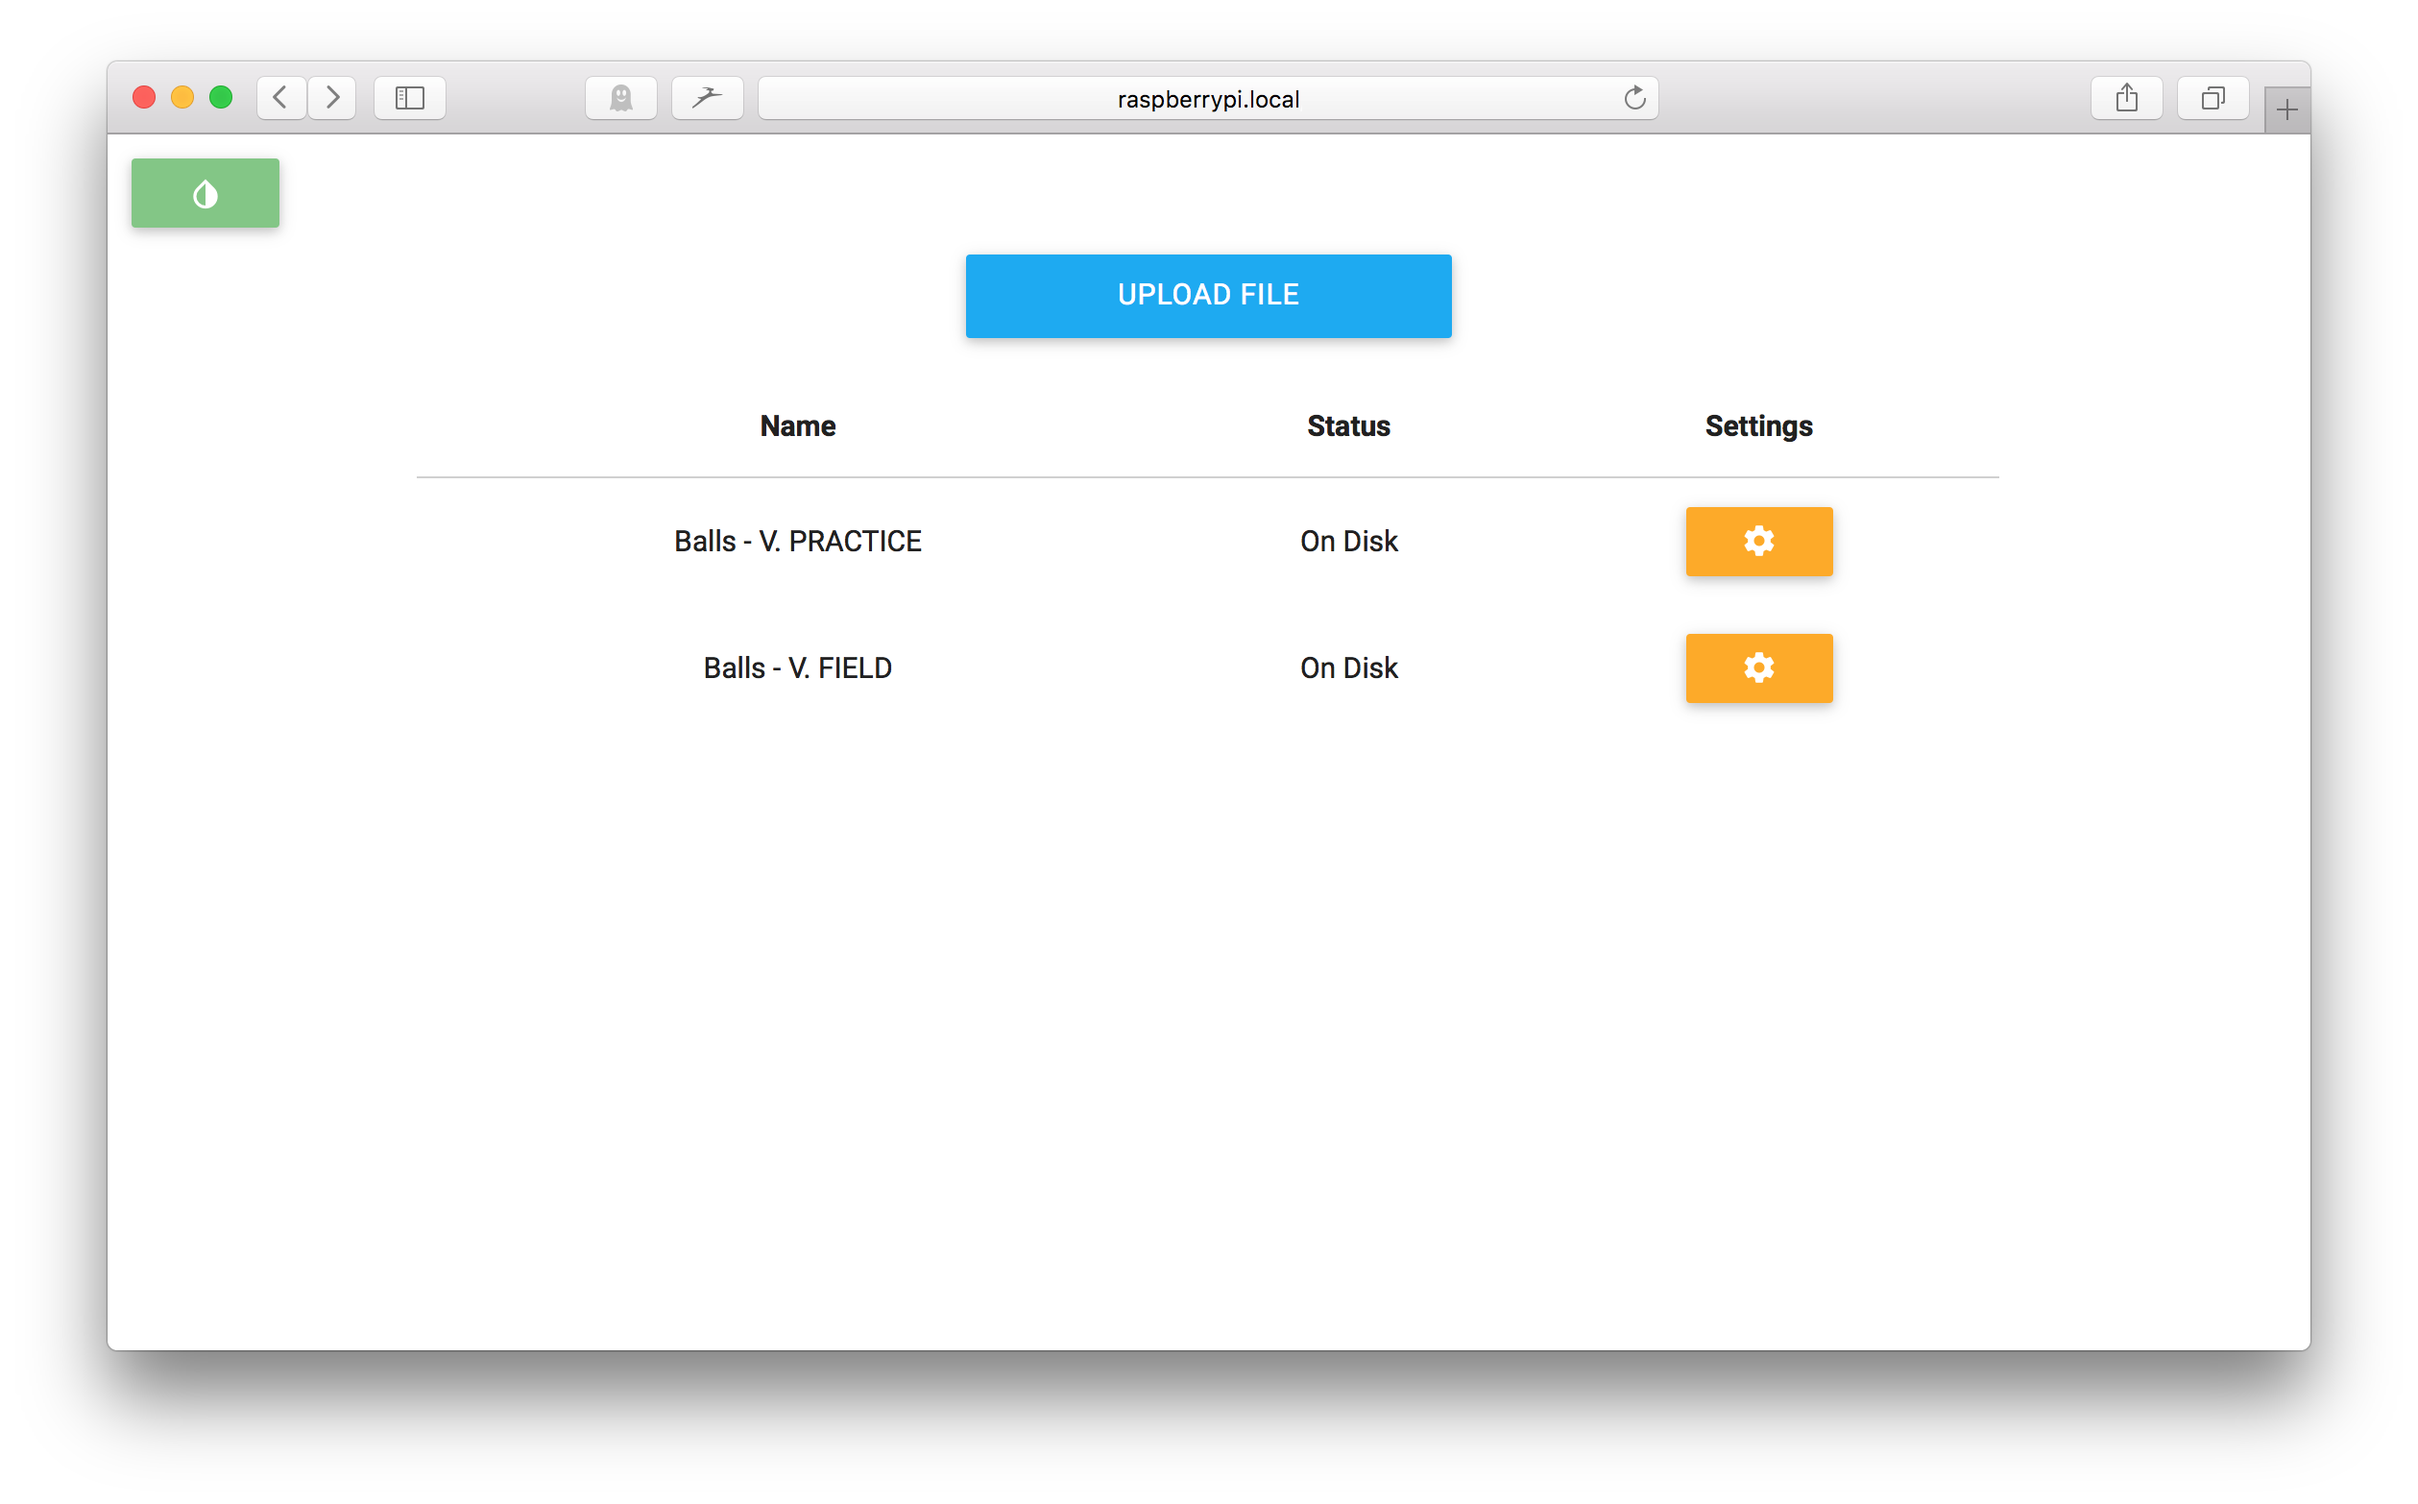
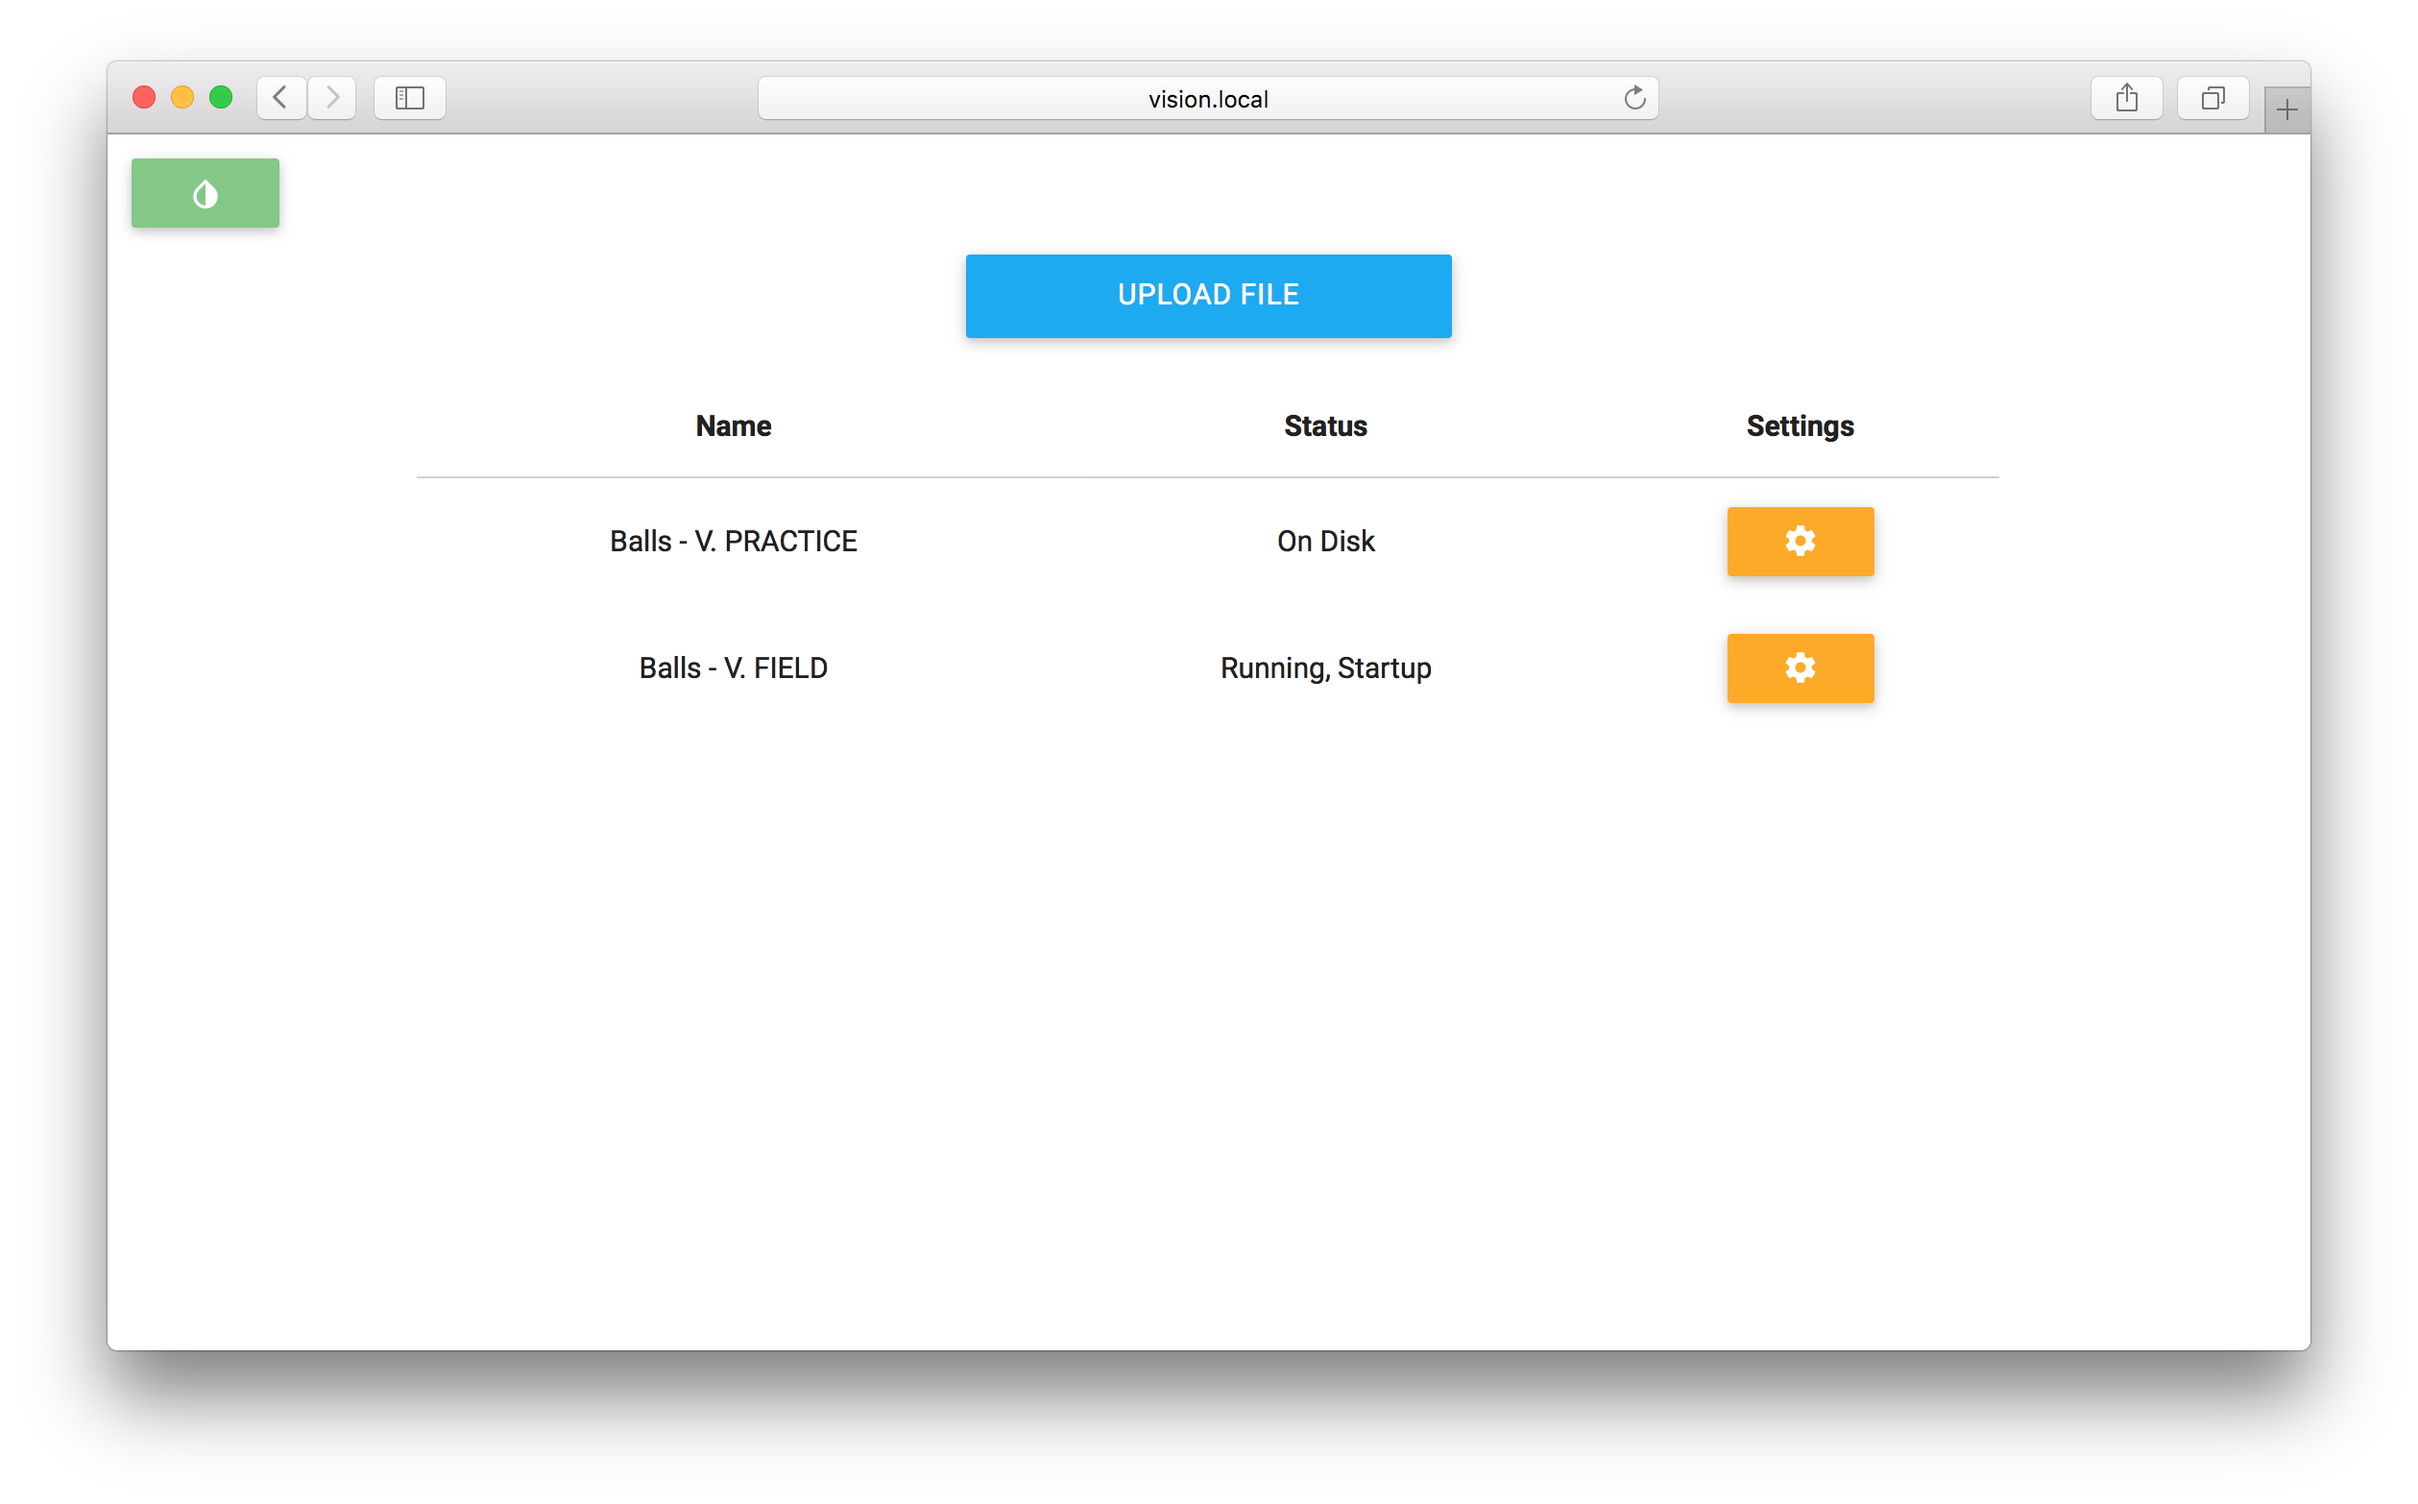
Hash filenames and add them to `data-filename`

diff --git a/js/main.js b/js/main.js
@@ -1,7 +1,9 @@
 $(document).ready(function() {
   //Generate dropdown
-  function generateDropdown(id, statusText, startupText) {
-    return "<a class='btn waves-effect amber accent-4 dropdown-button' href='#' data-activates='" + id + "'><i class='material-icons'>settings</i></a><ul id='" + id + "' class='dropdown-content'><li><a class='action'>" + statusText + "</a></li><li><a class='delete'>Delete</a></li><li class='divider'></li><li><a class='startup'>" + startupText + "</a></li></ul>";
+  function generateDropdown(name, statusText, startupText) {
+    var id = name.hashCode();
+    
+    return "<a class='btn waves-effect amber accent-4 dropdown-button' href='#' data-activates='" + id + "'><i class='material-icons'>settings</i></a><ul id='" + id + "' class='dropdown-content' data-filename='" + name + "'><li><a class='action'>" + statusText + "</a></li><li><a class='delete'>Delete</a></li><li class='divider'></li><li><a class='startup'>" + startupText + "</a></li></ul>";
   }
   
   //File listing
@@ -15,25 +17,24 @@ $(document).ready(function() {
         
         files.forEach(function(file) {
           var status = "On Disk";
-          var escapedName = btoa(file.name); //Encode filename to base 64 so we don't have to mess with spaces, quotes, etc
-          escapedName = escapedName.slice(0, -1); //Slice off standard '=' on base 64 strings. Otherwise, the browser gets confused.
+          var filename = file.name;
           
-          dropdownHTML = generateDropdown(escapedName, "Start", "Add to Startup"); //Default dropdown
+          dropdownHTML = generateDropdown(filename, "Start", "Add to Startup"); //Default dropdown
           
           if (file.running == true && file.startup == true) {
-            dropdownHTML = generateDropdown(escapedName, "Stop", "Remove from Startup");
+            dropdownHTML = generateDropdown(filename, "Stop", "Remove from Startup");
             status = "Running, Startup";
           }
           else if (file.running == true) {
-            dropdownHTML = generateDropdown(escapedName, "Stop", "Add to Startup");
+            dropdownHTML = generateDropdown(filename, "Stop", "Add to Startup");
             status = "Running";
           }
           else if (file.startup == true) {
-            dropdownHTML = generateDropdown(escapedName, "Start", "Remove from Startup");
+            dropdownHTML = generateDropdown(filename, "Start", "Remove from Startup");
             status = "Startup";
           }
           
-          $("table thead").after("<tr><td>" + file.name + "</td><td>" + status + "</td><td>" + dropdownHTML + "</td></tr>"); //Inject created table row
+          $("table thead").after("<tr><td>" + filename + "</td><td>" + status + "</td><td>" + dropdownHTML + "</td></tr>"); //Inject created table row
         });
         
         $('.dropdown-button').dropdown({ //Initiate created dropdowns
@@ -48,9 +49,8 @@ $(document).ready(function() {
         
         //Start/stop config file
         $(".action, .delete, .startup").click(function() {
-          var configName = $(this.closest("ul")).prop("id");
-          configName = configName + "="; //Add '=' back in to base 64 string that we previously removed
-          configName = atob(configName);
+          var configName = $(this.closest("ul")).data("filename");
+          console.log(configName);
           
           var text = $(this).text();
           
@@ -141,3 +141,15 @@ $(document).ready(function() {
     darkMode(true);
   });
 });
+
+//Simple hashing function - thanks [SO](http://stackoverflow.com/a/7616484)!
+String.prototype.hashCode = function() {
+  var hash = 0, i, chr, len;
+  if (this.length === 0) return hash;
+  for (i = 0, len = this.length; i < len; i++) {
+    chr   = this.charCodeAt(i);
+    hash  = ((hash << 5) - hash) + chr;
+    hash |= 0; // Convert to 32bit integer
+  }
+  return hash;
+};
